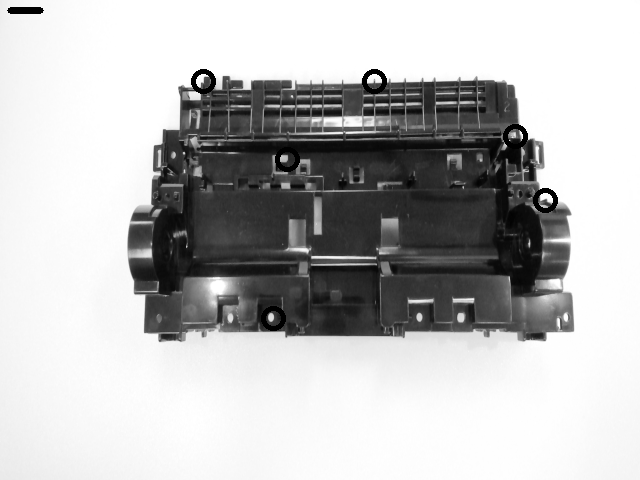
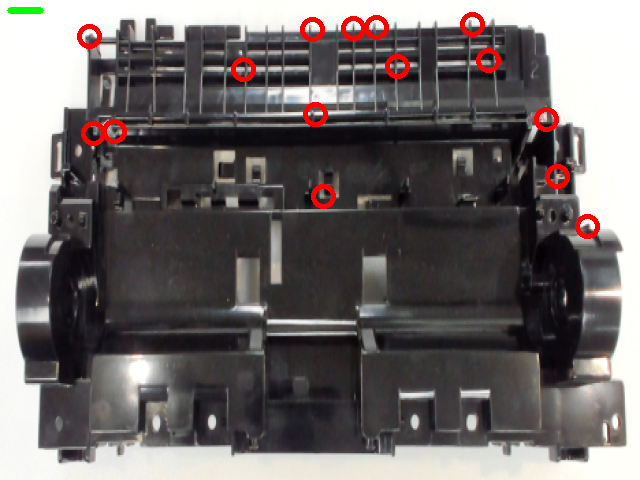
2020.01.30_ver3

diff --git a/ShapeDetect.py b/ShapeDetect.py
@@ -1,0 +1,206 @@
+'''
+
+    Make Two Figures Set as One Figures Using Shape Detect
+
+    This is only for Toner. Take Contour of Figures and find rectangle which have smallest area.
+
+    Because two figures(normal and defect) rotate with different angle, Make them match by this module
+
+    Keypoint detection should spend too much time, so I use shape detection, make them match as fast.
+'''
+
+import cv2
+import numpy as np
+import math
+
+PI = 3.141592
+
+# 여백
+whiteScreen = 10
+
+# Call Normal Image
+normal_image = cv2.imread('./img/normal.jpg')
+normal_image = cv2.resize(normal_image, dsize=(640, 480), interpolation=cv2.INTER_AREA)
+gray = cv2.cvtColor(normal_image, cv2.COLOR_BGR2GRAY)
+ret, blmage = cv2.threshold(gray,220, 255, cv2.THRESH_BINARY_INV)
+blmage = cv2.dilate(blmage, None)
+cv2.imshow('blmage', blmage)
+
+# Backup normal image for cut
+normalImageForCut = cv2.imread('./img/normal.jpg')
+normalImageForCut = cv2.resize(normalImageForCut, dsize=(640, 480), interpolation=cv2.INTER_AREA)
+
+# Find Contours of Figures
+mode = cv2.RETR_EXTERNAL
+method = cv2.CHAIN_APPROX_SIMPLE
+contours, hierarchy = cv2.findContours(blmage, mode, method)
+print('len(contours) = ', len(contours))
+
+maxLength = 0
+k = 0
+for i, cnt in enumerate(contours):
+    perimeter = cv2.arcLength(cnt, closed = True)
+    if perimeter > maxLength:
+        maxLength = perimeter
+        k = i
+print('maxLength = ', maxLength)
+cnt = contours[k]
+dst2 = normal_image.copy()
+cv2.drawContours(dst2, [cnt], 0, (255, 0, 0), 3)
+
+# After Find Contour, Find Smallest area BOX.
+# The pixel number of BOX is saved at box
+rect = cv2.minAreaRect(cnt)
+box = cv2.boxPoints(rect)
+box = np.int32(box)
+dst4 = dst2.copy()
+cv2.drawContours(dst4, [box], 0, (0,0,255), 2)
+cv2.imshow('dst4', dst4)
+
+# Call Defect Image
+defect = cv2.imread('./img/defect1.jpg')
+defect = cv2.resize(defect, dsize=(640, 480), interpolation=cv2.INTER_AREA)
+gray_defect = cv2.cvtColor(defect, cv2.COLOR_BGR2GRAY)
+ret_defect, bImage_defect = cv2.threshold(gray_defect,220, 255, cv2.THRESH_BINARY_INV)
+bImage_defect = cv2.dilate(bImage_defect, None)
+cv2.imshow('bImage_defect', bImage_defect)
+
+# Backup Defect Image for Image Matching
+defectImageForMatching = cv2.imread('./img/defect1.jpg')
+defectImageForMatching = cv2.resize(defectImageForMatching, dsize=(640, 480), interpolation=cv2.INTER_AREA)
+
+# Find Contours of Figures
+mode = cv2.RETR_EXTERNAL
+method = cv2.CHAIN_APPROX_SIMPLE
+contours_defect, hierarchy = cv2.findContours(bImage_defect, mode, method)
+print('len(contours_defect) = ', len(contours_defect))
+
+maxLength_defect = 0
+k_defect = 0
+for i, cnt in enumerate(contours_defect):
+    perimeter = cv2.arcLength(cnt, closed = True)
+    if perimeter > maxLength_defect:
+        maxLength_defect = perimeter
+        k_defect = i
+print('maxLength_defect = ', maxLength_defect)
+cnt_defect = contours_defect[k_defect]
+dst2_defect = defect.copy()
+cv2.drawContours(dst2_defect, [cnt], 0, (255, 0, 0), 3)
+
+# After Find Contour, Find Smallest area BOX.
+# The pixel number of BOX is saved at box_defect
+rect_defect = cv2.minAreaRect(cnt_defect)
+box_defect = cv2.boxPoints(rect_defect)
+box_defect = np.int32(box_defect)
+dst4_defect = dst2_defect.copy()
+cv2.drawContours(dst4_defect, [box_defect], 0, (0,0,255), 2)
+cv2.imshow('dst4_defect', dst4_defect)
+
+# Calculate With Mathematics
+# Calculate How many Rotate of Normal & Defect Image
+
+#
+# The order of components of box -> [Left Downside], [Left Upside], [Right Upside], [Right Downside]
+#
+
+slopeForHorizontalNormalImage = (box[2][1] - box[1][1]) / (box[2][0] - box[1][0])
+slopeForHorizontalDefectImage = (box_defect[2][1] - box_defect[1][1]) / (box_defect[2][0] - box_defect[1][0])
+
+if(slopeForHorizontalNormalImage != slopeForHorizontalDefectImage):
+    print('Two Images are not matched. Start Matching...')
+    print('Standard image is Normal Image.')
+
+    AngleForNormalImage = math.atan(slopeForHorizontalNormalImage)
+    AngleForDefectImage = math.atan(slopeForHorizontalDefectImage)
+
+    print('Angle of Normal Image : ', AngleForNormalImage, ' Angle of Defect Image = ', AngleForDefectImage)
+
+    # If normal image has bigger angle, below variable will be 0. if not, 1
+    whichImageHasBiggerAngle = 0
+
+    if(AngleForNormalImage > AngleForDefectImage):
+        AngleDiscrepancy = AngleForNormalImage - AngleForDefectImage
+    else :
+        AngleDiscrepancy = AngleForDefectImage - AngleForNormalImage
+        whichImageHasBiggerAngle = 1
+
+    AngleDiscrepancyInDegree = AngleDiscrepancy*180/PI
+
+    print('Difference between two angle : ', AngleDiscrepancy)
+    print('Rotate defect Image as ', AngleDiscrepancyInDegree, 'degree')
+
+    rows, cols, channels = defectImageForMatching.shape
+    if whichImageHasBiggerAngle == 0:
+        M1 = cv2.getRotationMatrix2D((rows/2, cols/2), -AngleDiscrepancyInDegree, 1.0)
+    else:
+        M1 = cv2.getRotationMatrix2D((rows/2, cols/2), AngleDiscrepancyInDegree, 1.0)
+    rotatedDefectImage = cv2.warpAffine(defectImageForMatching, M1, (640, 480))
+
+    cv2.imshow('rotatedDefectImage', rotatedDefectImage)
+
+    # Find Smallest area box
+    gray_rotatedDefect = cv2.cvtColor(rotatedDefectImage, cv2.COLOR_BGR2GRAY)
+    ret_rotatedDefect, bImage_rotatedDefect = cv2.threshold(gray_rotatedDefect, 220, 255, cv2.THRESH_BINARY_INV)
+    bImage_rotatedDefect = cv2.dilate(bImage_rotatedDefect, None)
+    cv2.imshow('bImage_rotatedDefect', bImage_rotatedDefect)
+
+    # Find Contours of Figures
+    mode = cv2.RETR_EXTERNAL
+    method = cv2.CHAIN_APPROX_SIMPLE
+    contours_rotatedDefect, hierarchy_rotatedDefect = cv2.findContours(bImage_rotatedDefect, mode, method)
+    print('len(contours_rotatedDefect) = ', len(contours_rotatedDefect))
+
+    maxLength_rotatedDefect = 0
+    k_rotatedDefect = 0
+    for i, cnt in enumerate(contours_rotatedDefect):
+        perimeter = cv2.arcLength(cnt, closed=True)
+        if perimeter > maxLength_rotatedDefect:
+            maxLength_rotatedDefect = perimeter
+            k_rotatedDefect = i
+    print('maxLength_defect = ', maxLength_rotatedDefect)
+    cnt_rotatedDefect = contours_rotatedDefect[k_rotatedDefect]
+    dst2_rotatedDefect = rotatedDefectImage.copy()
+    cv2.drawContours(dst2_rotatedDefect, [cnt], 0, (255, 0, 0), 3)
+
+    # After Find Contour, Find Smallest area BOX.
+    # The pixel number of BOX is saved at box_defect
+    rect_rotatedDefect = cv2.minAreaRect(cnt_rotatedDefect)
+    box_rotatedDefect = cv2.boxPoints(rect_rotatedDefect)
+    box_rotatedDefect = np.int32(box_rotatedDefect)
+    dst4_rotatedDefect = dst2_rotatedDefect.copy()
+    cv2.drawContours(dst4_rotatedDefect, [box_rotatedDefect], 0, (0, 0, 255), 2)
+    cv2.imshow('dst4_rotatedDefect', dst4_rotatedDefect)
+    print('Box point of rotated Image : ', box_rotatedDefect)
+
+    CutRotatedDefectImage = rotatedDefectImage[min([box_rotatedDefect[2][1] - whiteScreen , box_rotatedDefect[3][1] - whiteScreen]):
+                                              max([box_rotatedDefect[3][1] + whiteScreen , box_rotatedDefect[0][1] + whiteScreen]),
+                                              min([box_rotatedDefect[1][0] - whiteScreen , box_rotatedDefect[0][0] - whiteScreen]):
+                                              max([box_rotatedDefect[2][0] + whiteScreen , box_rotatedDefect[3][0] + whiteScreen])]
+
+    print('min and max value For defect image: ', min([box_rotatedDefect[1][0] - whiteScreen , box_rotatedDefect[0][0] - whiteScreen]),
+                                              max([box_rotatedDefect[2][0] + whiteScreen , box_rotatedDefect[3][0] + whiteScreen]),
+                                              min([box_rotatedDefect[2][1] - whiteScreen , box_rotatedDefect[3][1] - whiteScreen]),
+                                              max([box_rotatedDefect[3][1] + whiteScreen , box_rotatedDefect[0][1] + whiteScreen]))
+
+    resizedRotatedDefectImage = cv2.resize(CutRotatedDefectImage, dsize=(640, 480), interpolation=cv2.INTER_AREA)
+
+    CutNormalImage = normalImageForCut[min([box[2][1] - whiteScreen , box[3][1] - whiteScreen]):
+                                       max([box[3][1] + whiteScreen , box[0][1] + whiteScreen]),
+                                       min([box[1][0] - whiteScreen , box[0][0] - whiteScreen]):
+                                       max([box[2][0] + whiteScreen , box[3][0] + whiteScreen])]
+
+
+    print('min and max value for Normal Image: ', min([box[1][0] - whiteScreen , box[0][0] - whiteScreen]),
+                                       max([box[2][0] + whiteScreen , box[3][0] + whiteScreen]),
+                                       min([box[2][1] - whiteScreen , box[3][1] - whiteScreen]),
+                                       max([box[3][1] + whiteScreen , box[0][1] + whiteScreen]))
+
+    resizedNormalImage = cv2.resize(CutNormalImage, dsize = (640,480), interpolation = cv2.INTER_AREA)
+
+    cv2.imwrite('./img/rotatedNormalImage.png', resizedNormalImage)
+    cv2.imwrite('./img/rotatedDefectImage.png', resizedRotatedDefectImage)
+
+    cv2.imshow("Normal Image Cut " , resizedNormalImage)
+    cv2.imshow("Defect Image Cut " , resizedRotatedDefectImage)
+
+cv2.waitKey(0)

diff --git a/FastFeatureDetector.py b/FastFeatureDetector.py
@@ -15,26 +15,42 @@ import cv2
 import matplotlib.pyplot as plt
 import numpy as np
 import math
+'''
+cv2.imwrite('./img/rotatedNormalImage.png', resizedNormalImage)
+cv2.imwrite('./img/rotatedDefectImage.png', resizedRotatedDefectImage)
+'''
 
 # Call Normal Image and Pre-processing
-normalImage = cv2.imread('./img/normal.jpg')
+normalImage = cv2.imread('./img/rotatedNormalImage.png')
 normalImage = cv2.resize(normalImage, dsize=(640,480), interpolation = cv2.INTER_AREA)
 normalImage = cv2.cvtColor(normalImage, cv2.COLOR_BGR2GRAY)
 
+# Backup Color Normal Image
+normalImage_color = cv2.imread('./img/rotatedNormalImage.png')
+normalImage_color = cv2.resize(normalImage_color, dsize=(640,480), interpolation = cv2.INTER_AREA)
+
 # Call Defect Image and Pre-processing
-defectImage = cv2.imread('./img/defect1.jpg')
+defectImage = cv2.imread('./img/rotatedDefectImage.png')
 defectImage = cv2.resize(defectImage, dsize=(640,480), interpolation = cv2.INTER_AREA)
 defectImage = cv2.cvtColor(defectImage,cv2.COLOR_BGR2GRAY)
 
+# Backup Color Defect Image
+defectImage_color = cv2.imread('./img/rotatedDefectImage.png')
+defectImage_color = cv2.resize(defectImage_color, dsize=(640,480), interpolation = cv2.INTER_AREA)
+
+# Backup Color Defect Image
+defectImage_color_Defect = cv2.imread('./img/rotatedDefectImage.png')
+defectImage_color_Defect = cv2.resize(defectImage_color_Defect, dsize=(640,480), interpolation = cv2.INTER_AREA)
+
 # Find Key point of Normal Image and show it with smaller threshold Value
-fastF_normalImage =cv2.FastFeatureDetector.create(threshold=80)
+fastF_normalImage =cv2.FastFeatureDetector.create(threshold=50)
 kp_normalImage = fastF_normalImage.detect(normalImage)
 dst_normalImage = cv2.drawKeypoints(normalImage, kp_normalImage, None, color=(0,0,255))
 print('len(kp_normalImage)=', len(kp_normalImage))
 cv2.imshow('dst_normalImage',  dst_normalImage)
 
 # Find Key point of Defect Image and show it with bigger threshold Value
-fastF_defectImage =cv2.FastFeatureDetector.create(threshold=90)
+fastF_defectImage =cv2.FastFeatureDetector.create(threshold=50)
 kp_defectImage = fastF_defectImage.detect(defectImage)
 dst_defectImage = cv2.drawKeypoints(defectImage, kp_defectImage, None, color=(0,0,255))
 print('len(kp_defectImage)=', len(kp_defectImage))
@@ -130,15 +146,15 @@ for i in range(len(popList)):
     popNum += 1
 
 for i in range(len(triangleForNormalImage)):
-    cv2.circle(normalImage, (int(float(triangleForNormalImage[i][0])), int(float(triangleForNormalImage[i][1]))), 10, (0,0,255), 3)
+    cv2.circle(normalImage_color, (int(float(triangleForNormalImage[i][0])), int(float(triangleForNormalImage[i][1]))), 10, (0,0,255), 3)
 
 # Draw Lines For compare distance
-cv2.line(normalImage, (10,10), (40,10), (0,255,0), 5)
+cv2.line(normalImage_color, (10,10), (40,10), (0,255,0), 5)
 
 print('After remove close pixels : ', triangleForNormalImage)
 
-cv2.imwrite('./img/withCircle_Normal_1.png', normalImage)
-cv2.imshow('normalImage', normalImage)
+cv2.imwrite('./img/withCircle_Normal_1.png', normalImage_color)
+cv2.imshow('normalImage', normalImage_color)
 
 # Initialize distances Value Again
 distanceUnder1 = 0
@@ -209,20 +225,17 @@ for i in range(len(popList)):
     print('remove order : ', popList[i]-popNum)
     popNum += 1
 
-# backup Defect Image
-defectImageForIndicateDefect = defectImage
-
 # Draw Keypoints for defectImage
 for i in range(len(triangleForDefectImage)):
-    cv2.circle(defectImage, (int(float(triangleForDefectImage[i][0])), int(float(triangleForDefectImage[i][1]))), 10, (0,0,255), 3)
+    cv2.circle(defectImage_color, (int(float(triangleForDefectImage[i][0])), int(float(triangleForDefectImage[i][1]))), 10, (0,0,255), 3)
 
 print('After remove close pixels : ', triangleForDefectImage)
 
 # Draw Lines For compare distance
 cv2.line(defectImage, (10,10), (40,10), (0,255,0), 5)
 
-cv2.imwrite('./img/withCircle_Defect_1.png', defectImage)
-cv2.imshow('defectImage', defectImage)
+cv2.imwrite('./img/withCircle_Defect_1.png', defectImage_color)
+cv2.imshow('defectImage', defectImage_color)
 
 # Record Defect Part
 DefectPart = []
@@ -253,7 +266,7 @@ if defect == 1 :
     print('Defect is Detected!!')
     for i in range(len(defectIndex)):
         print('Defect Point : ', triangleForDefectImage[defectIndex[i]])
-        cv2.circle(defectImageForIndicateDefect, (int(float(triangleForDefectImage[i][0])), int(float(triangleForDefectImage[i][1]))), 20, (0,255,255), 3)
-    cv2.imshow('defectImage With Circle', defectImageForIndicateDefect)
+        cv2.circle(defectImage_color_Defect, (int(float(triangleForDefectImage[i][0])), int(float(triangleForDefectImage[i][1]))), 20, (0,255,255), 3)
+    cv2.imshow('defectImage With Circle', defectImage_color_Defect)
 
 cv2.waitKey(0)
